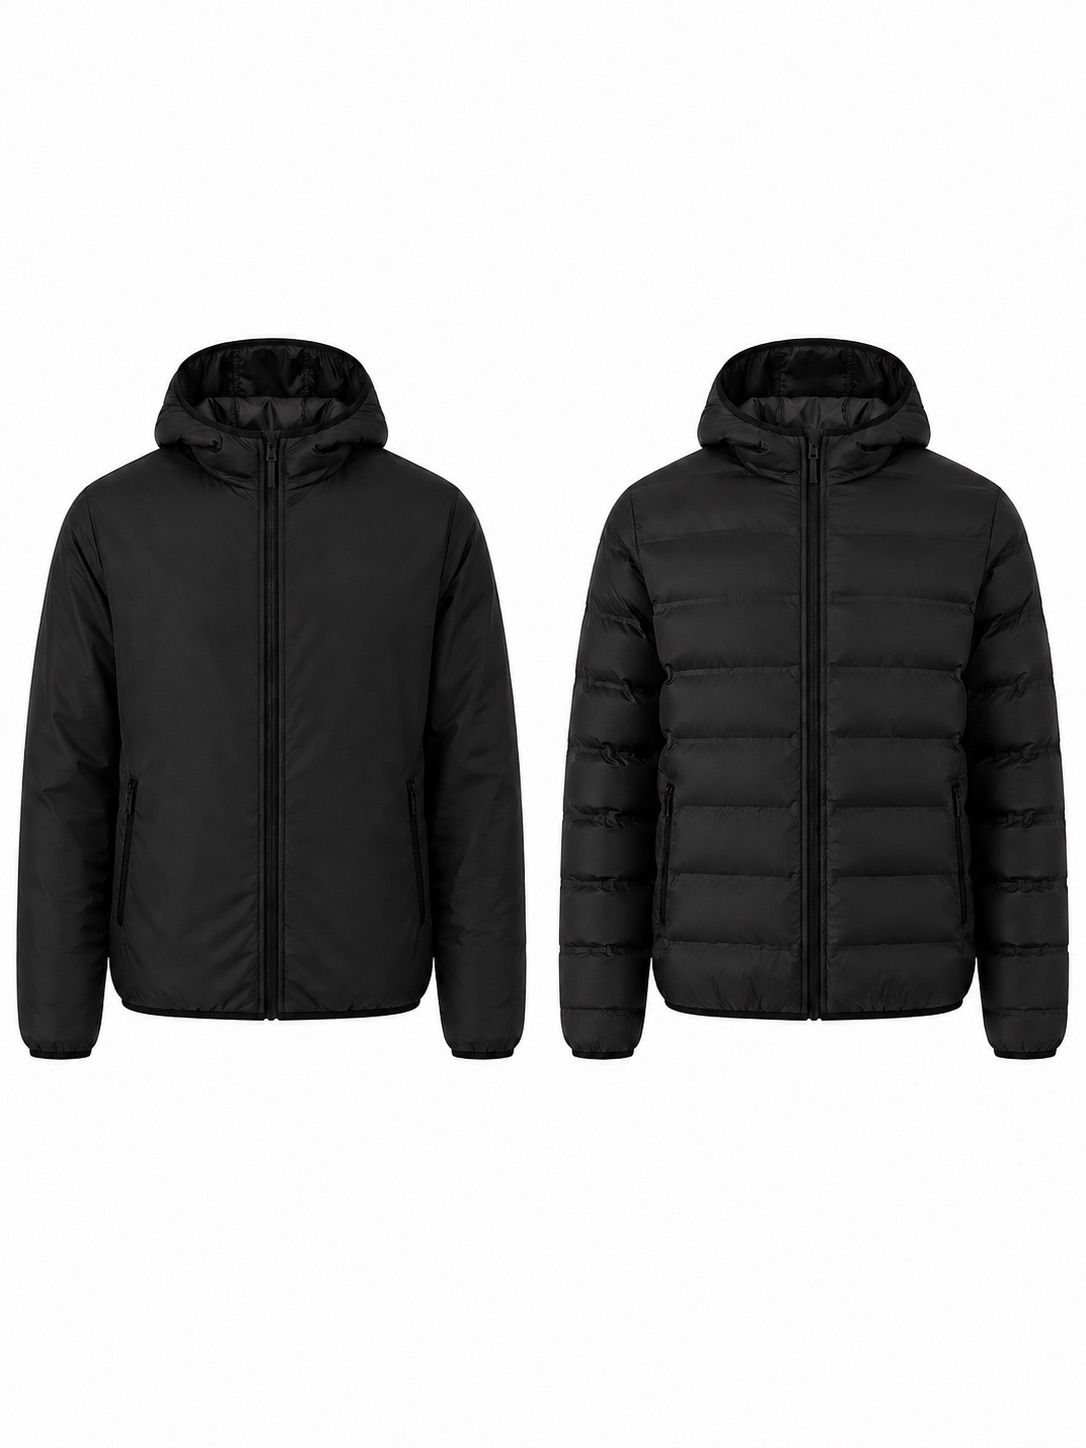
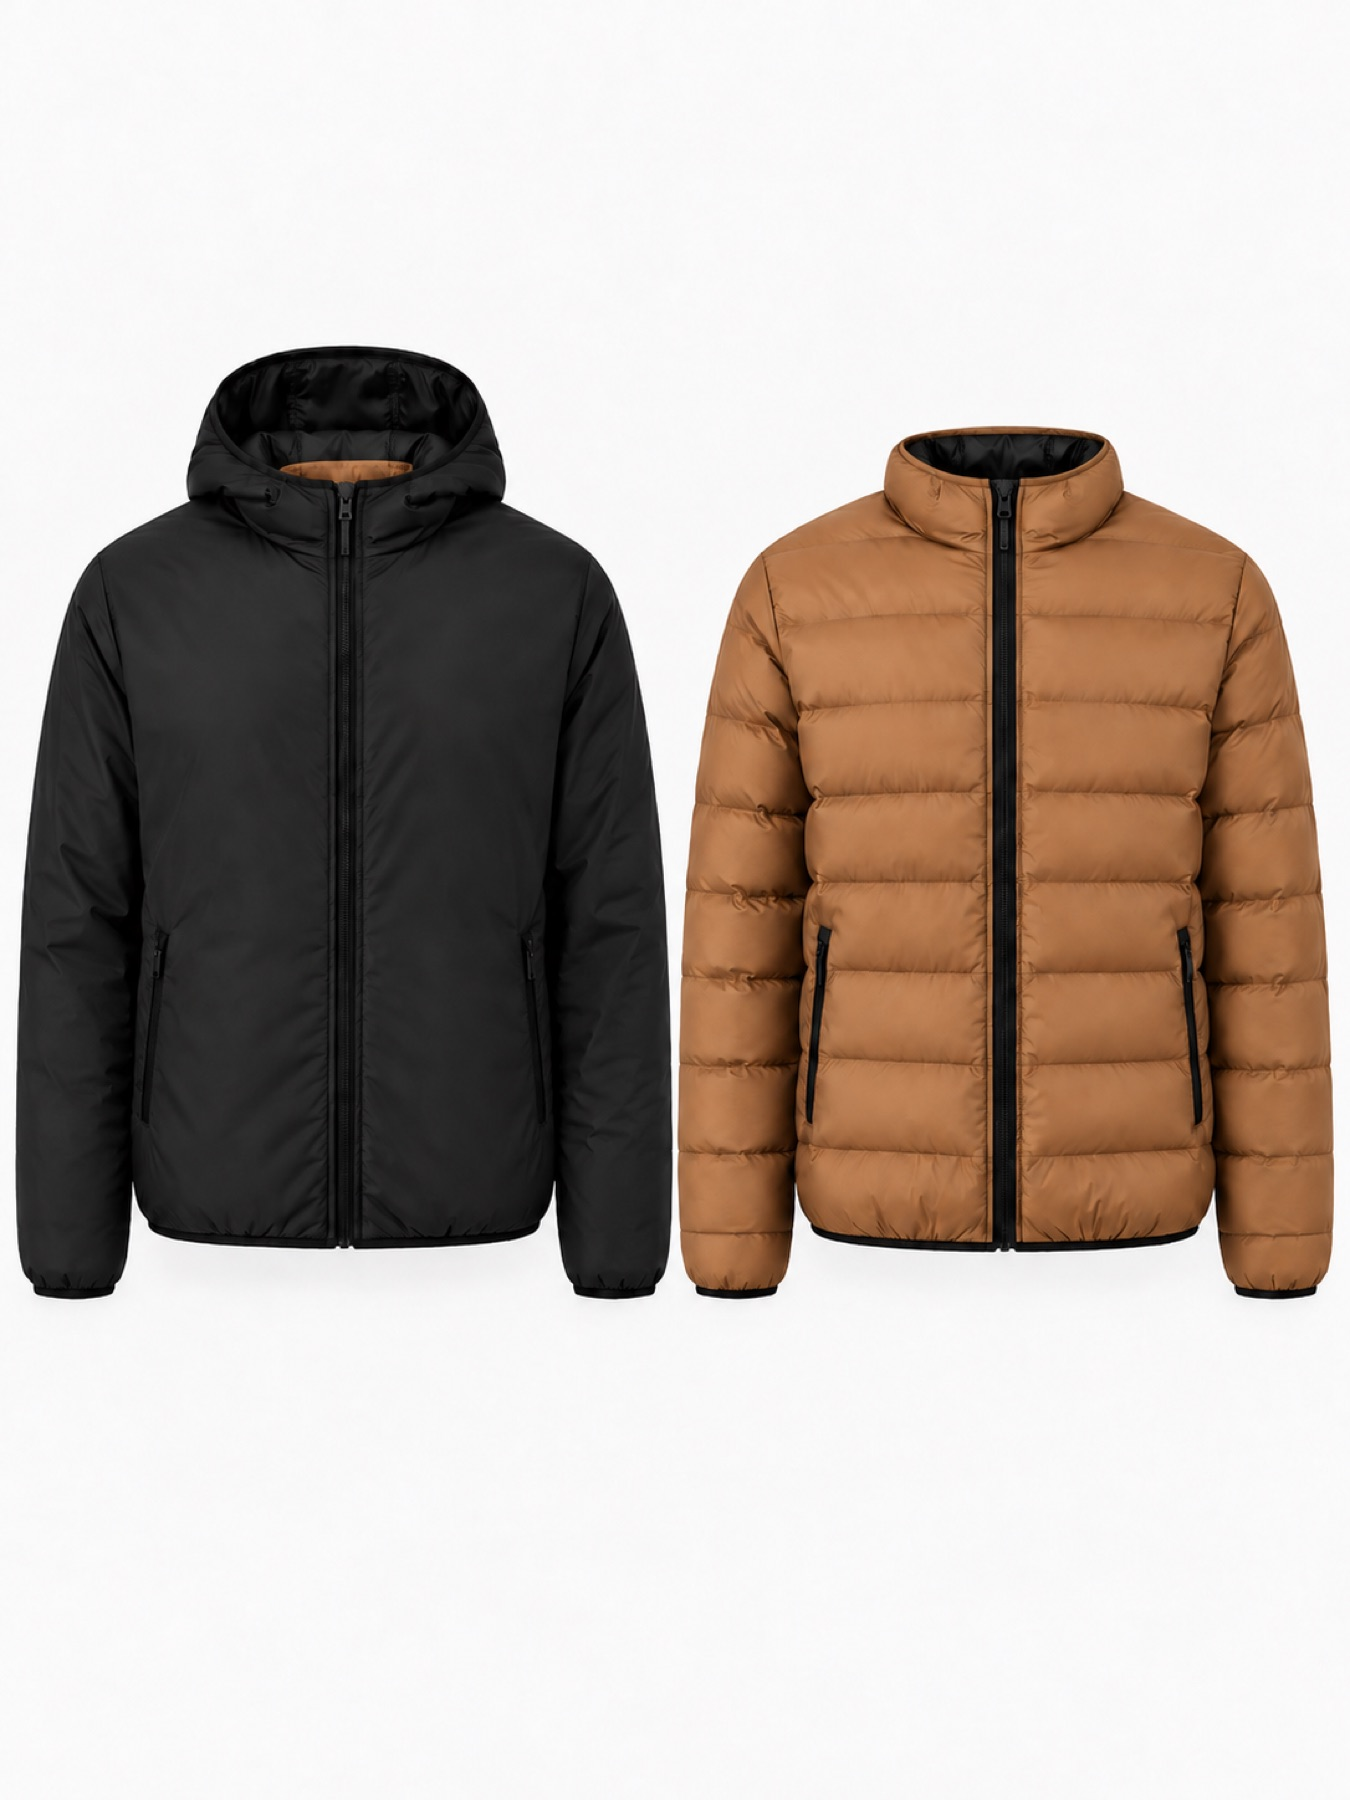
Update Parker photos and stock collection labels

diff --git a/script.js b/script.js
@@ -16,6 +16,13 @@ const collections = [
   { id: "hoodies-2027", name: "Hoodies 2027", label: "HOODIES 2027", tagline: "Hoodies 2027." }
 ];
 
+const PREORDER_COLLECTION_IDS = new Set([
+  "verano-2027",
+  "produccion-invierno-2027",
+  "sweaters-2027",
+  "hoodies-2027"
+]);
+
 const SPRING_PRODUCT_IDS = [51, 53, 54, 58, 61, 62, 63, 66, 68, 77, 78];
 const SPORTS_PRODUCT_IDS = [39, 51, 85, 86, 87];
 
@@ -1396,7 +1403,7 @@ Object.assign(productImagesById, {
   "155": [1, 2, 3, 4],
   "156": [1, 2, 3],
   "157": [1, 2, 3],
-  "158": [1, 2],
+  "158": [1, 2, 3, 4],
   "159": [1, 2, 3],
   "160": [1, 2],
   "161": [1, 2, 3],
@@ -1526,7 +1533,7 @@ Object.entries(winterImageAdditionsByProductId).forEach(([productId, photoNumber
   ])].sort((a, b) => a - b);
 });
 
-const IMAGE_ASSET_VERSION = "20260915-12";
+const IMAGE_ASSET_VERSION = "20260917-01";
 
 const PRODUCTION_2027_IMAGE_SOURCE_BY_PRODUCT_ID = {
   118: 48,  // Merano
@@ -1625,6 +1632,7 @@ function getProductImageSources(id) {
 
 // Foto principal por color. El numero corresponde a prod_ID_NUMERO.
 const colorImageByProductId = {
+  158: { "Negro/Camel": 1, "Oliva/Azul": 2, "Marino/Rojo": 3, "Beige/Oliva": 4 },
   160: { "Marrón": 1, "Negro": 2 },
   161: { "Camel": 1, "Negro": 2, "Chocolate": 3 },
   162: { "Marrón": 1, "Chocolate": 2, "Negro": 3, "Camel": 4 },
@@ -3213,6 +3221,12 @@ if (comisoProduct) {
   comisoProduct.preserveCatalogColors = true;
 }
 
+const parkerProduct = production2027Products.find(product => product.id === 158);
+if (parkerProduct) {
+  parkerProduct.colors = ["Negro/Camel", "Oliva/Azul", "Marino/Rojo", "Beige/Oliva"];
+  parkerProduct.preserveCatalogColors = true;
+}
+
 const carlAldenoProduct = production2027Products.find(product => product.id === 160);
 if (carlAldenoProduct) {
   carlAldenoProduct.colors = ["Marrón", "Negro"];
@@ -4166,7 +4180,7 @@ function getActiveCollection() {
 }
 
 function isPreorderCollection(collection = getActiveCollection()) {
-  return /2027/.test(`${collection.id} ${collection.name} ${collection.label}`);
+  return PREORDER_COLLECTION_IDS.has(collection.id);
 }
 
 function getModalAddButtonLabel(product, selectedOption, inCart) {

diff --git a/index.html b/index.html
@@ -249,6 +249,6 @@
     <a href="#catalogo">Volver al catálogo</a>
   </footer>
 
-  <script src="script.js?v=20260917-preventa-2027"></script>
+  <script src="script.js?v=20260917-stock-collections"></script>
 </body>
 </html>
